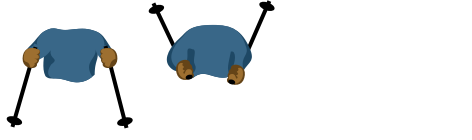
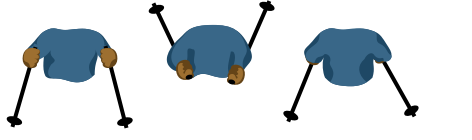
Graphic for back of jacket

Changed region(s): [[0.5932, 0.2, 0.8898, 0.8857]]

diff --git a/js/GaperGapGame.js b/js/GaperGapGame.js
@@ -309,6 +309,12 @@ var Skier = function() {
   skier.__defineSetter__('angle', function(deg) {
     _angle = deg;
 
+    if (_angle < -90 || _angle > 90) {
+      torso.gotoAndStop(2);
+    } else {
+      torso.gotoAndStop(0);
+    }
+
     var crosser = (_crossed) ? 40:0;
     leftSki.rotation = _angle-crosser;
     rightSki.rotation = _angle+crosser;

diff --git a/js/src/Skier.js b/js/src/Skier.js
@@ -131,6 +131,12 @@ var Skier = function() {
   skier.__defineSetter__('angle', function(deg) {
     _angle = deg;
 
+    if (_angle < -90 || _angle > 90) {
+      torso.gotoAndStop(2);
+    } else {
+      torso.gotoAndStop(0);
+    }
+
     var crosser = (_crossed) ? 40:0;
     leftSki.rotation = _angle-crosser;
     rightSki.rotation = _angle+crosser;
